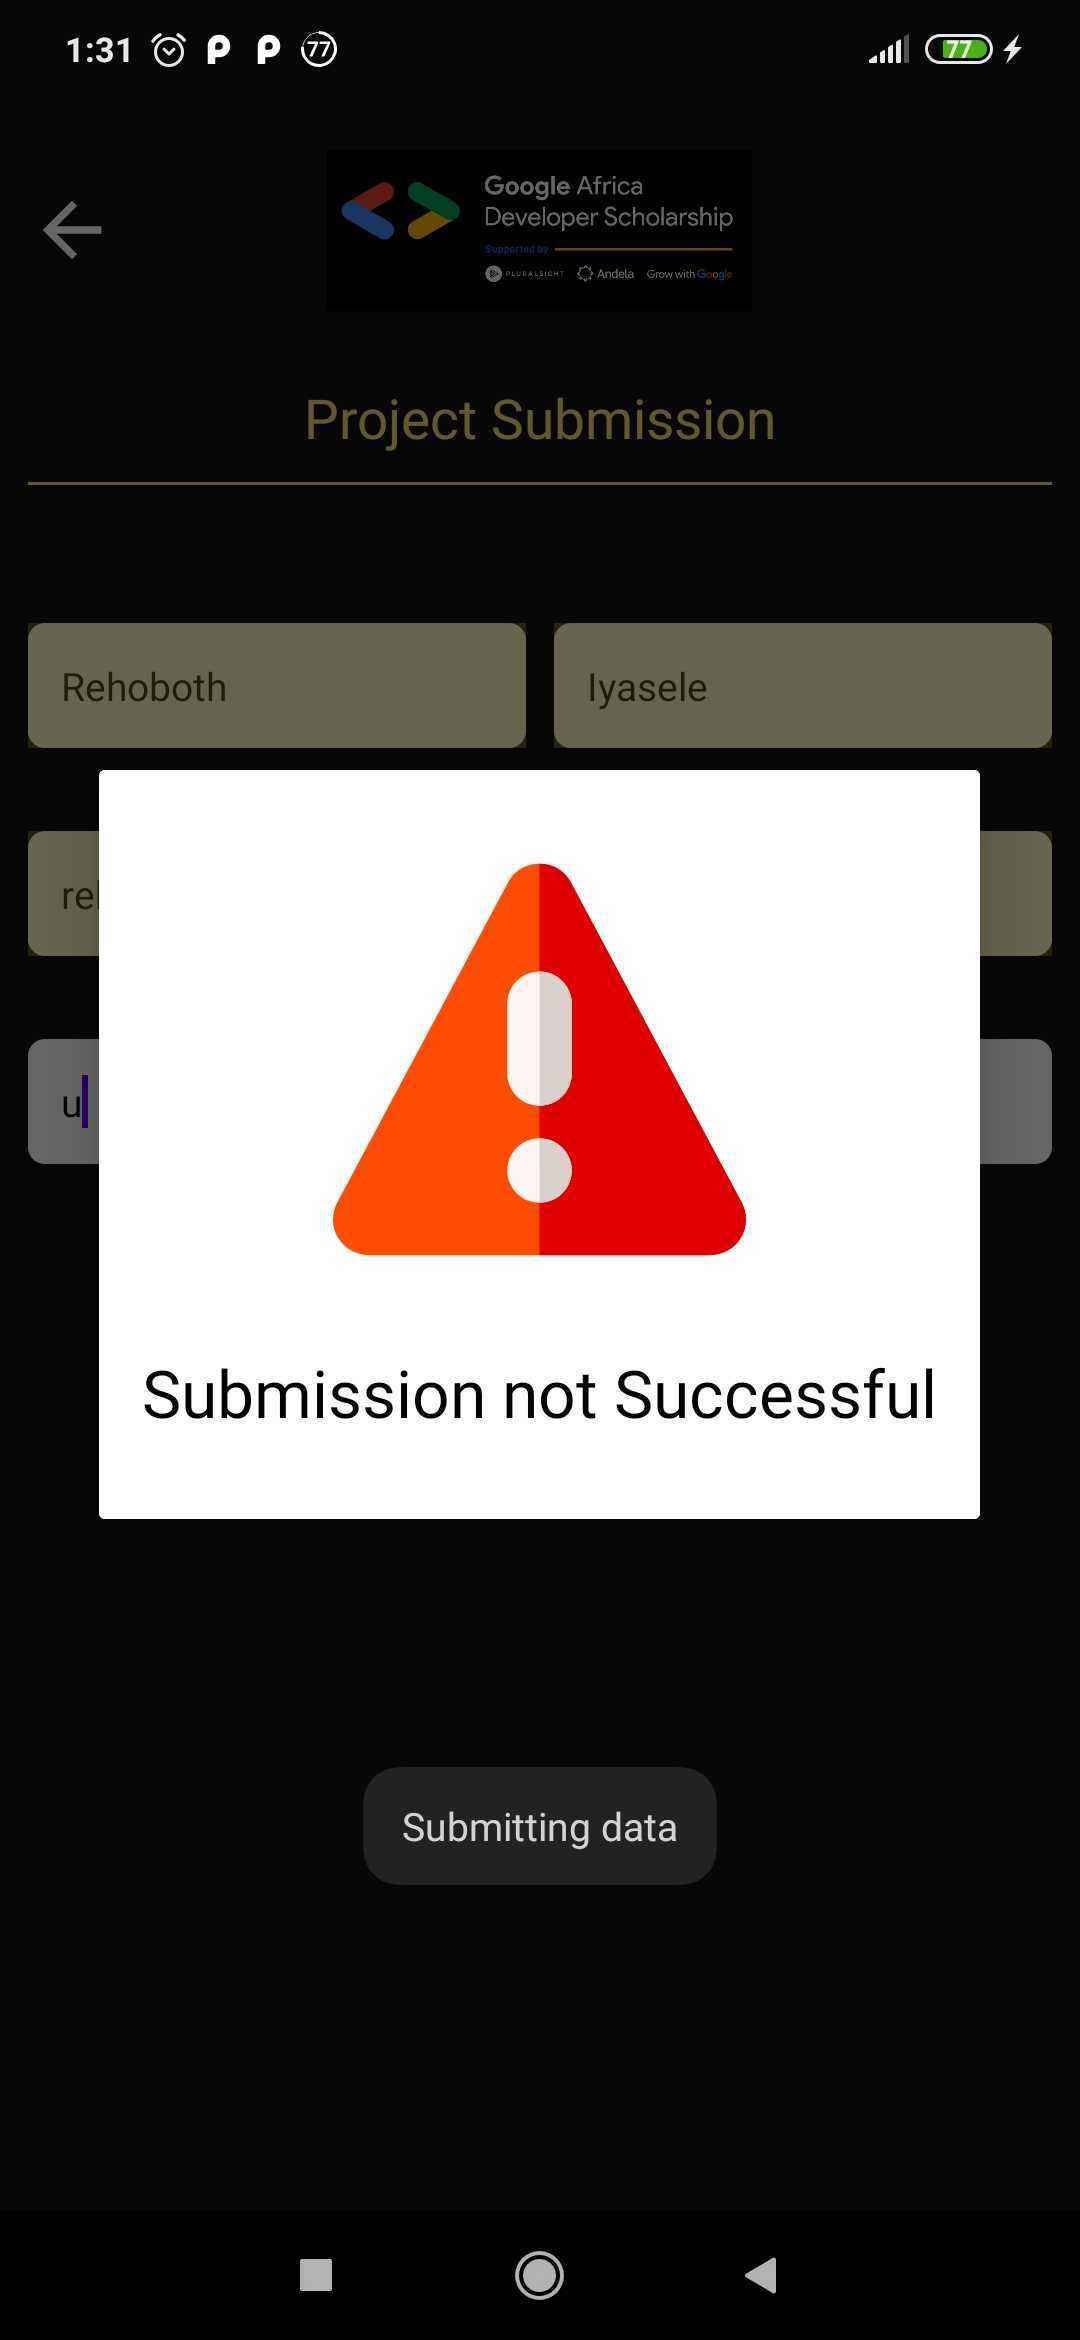
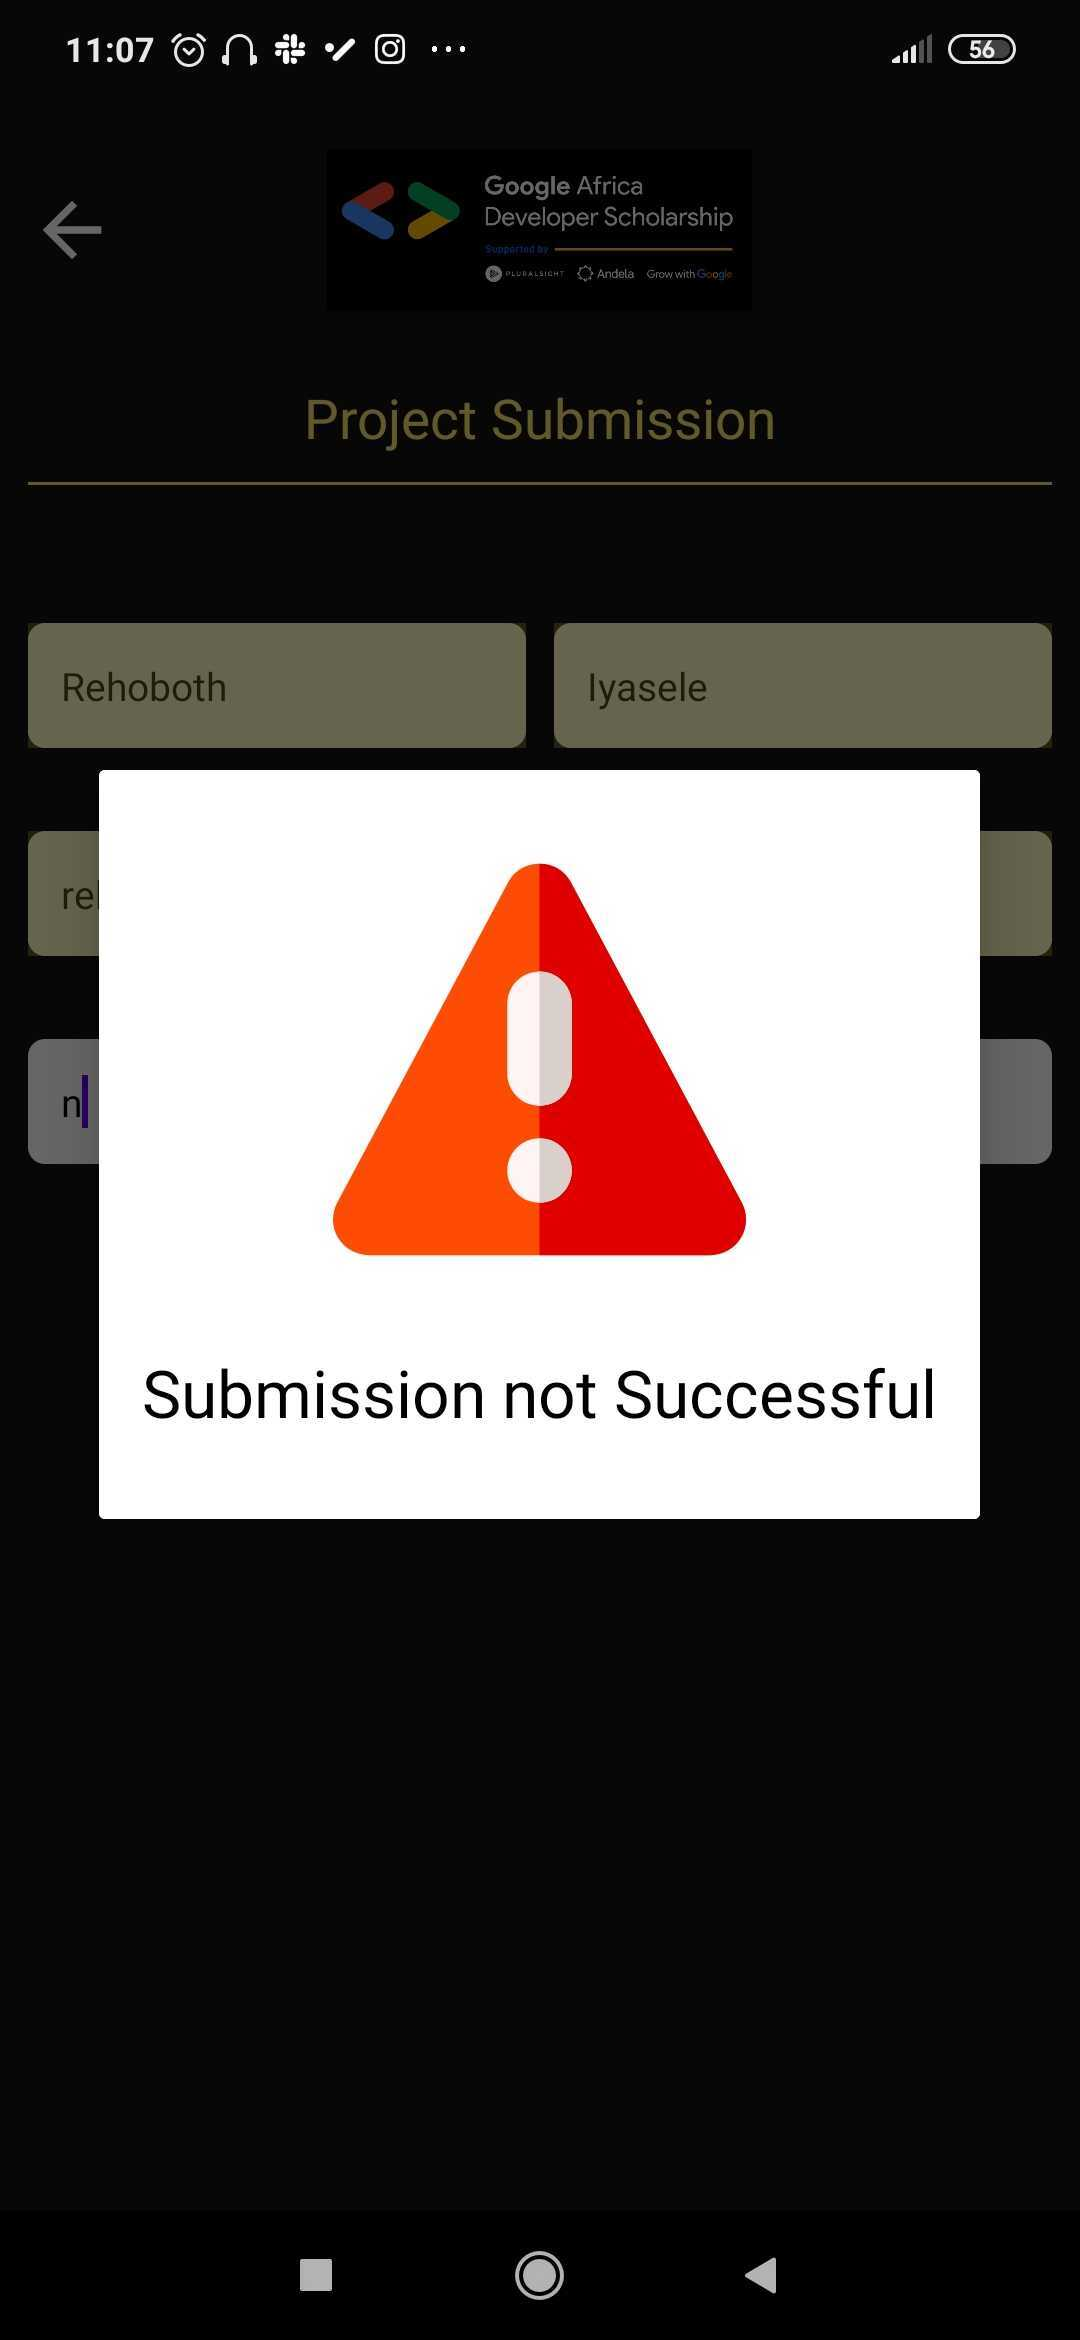
Removing Toasts and updating image "7"

Changed region(s): [[0.3361, 0.7487, 0.6722, 0.8111], [0.0917, 0.0, 0.3667, 0.0312], [0.825, 0.0, 0.9472, 0.0312]]

diff --git a/app/src/main/java/com/iyaselerehoboth/gadsleaderboard/views/activities/SubmissionActivity.java b/app/src/main/java/com/iyaselerehoboth/gadsleaderboard/views/activities/SubmissionActivity.java
@@ -86,11 +86,11 @@ public class SubmissionActivity extends AppCompatActivity {
                     //Display Success dialog
                     successDialog();
                     clearInputs();
-                    Toast.makeText(SubmissionActivity.this, "Response Code: " + response.code(), Toast.LENGTH_LONG).show();
+                    //Toast.makeText(SubmissionActivity.this, "Response Code: " + response.code(), Toast.LENGTH_LONG).show();
 
                 } else {
                     failedDialog();
-                    Toast.makeText(SubmissionActivity.this, "Response Code: " + response.code(), Toast.LENGTH_LONG).show();
+                    //Toast.makeText(SubmissionActivity.this, "Response Code: " + response.code(), Toast.LENGTH_LONG).show();
                 }
             }
 
